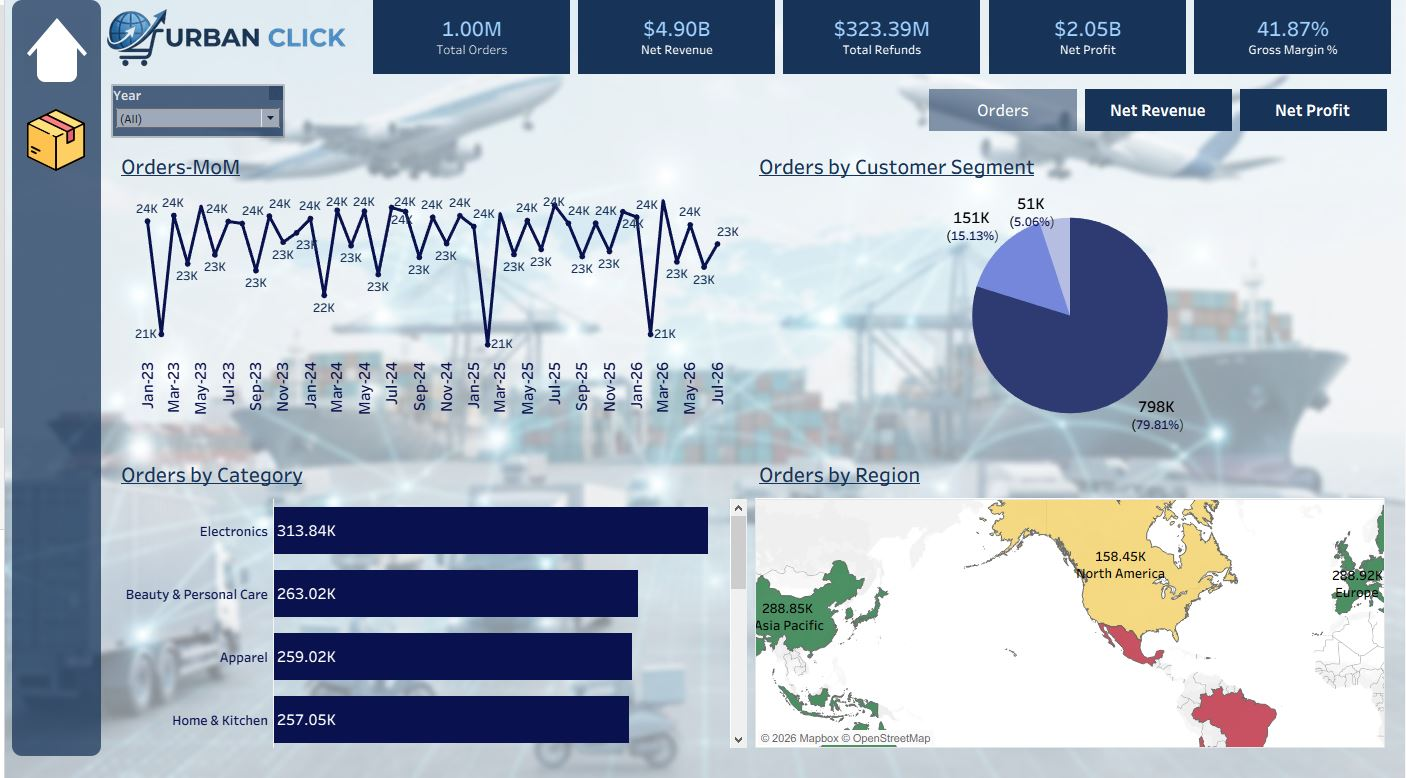
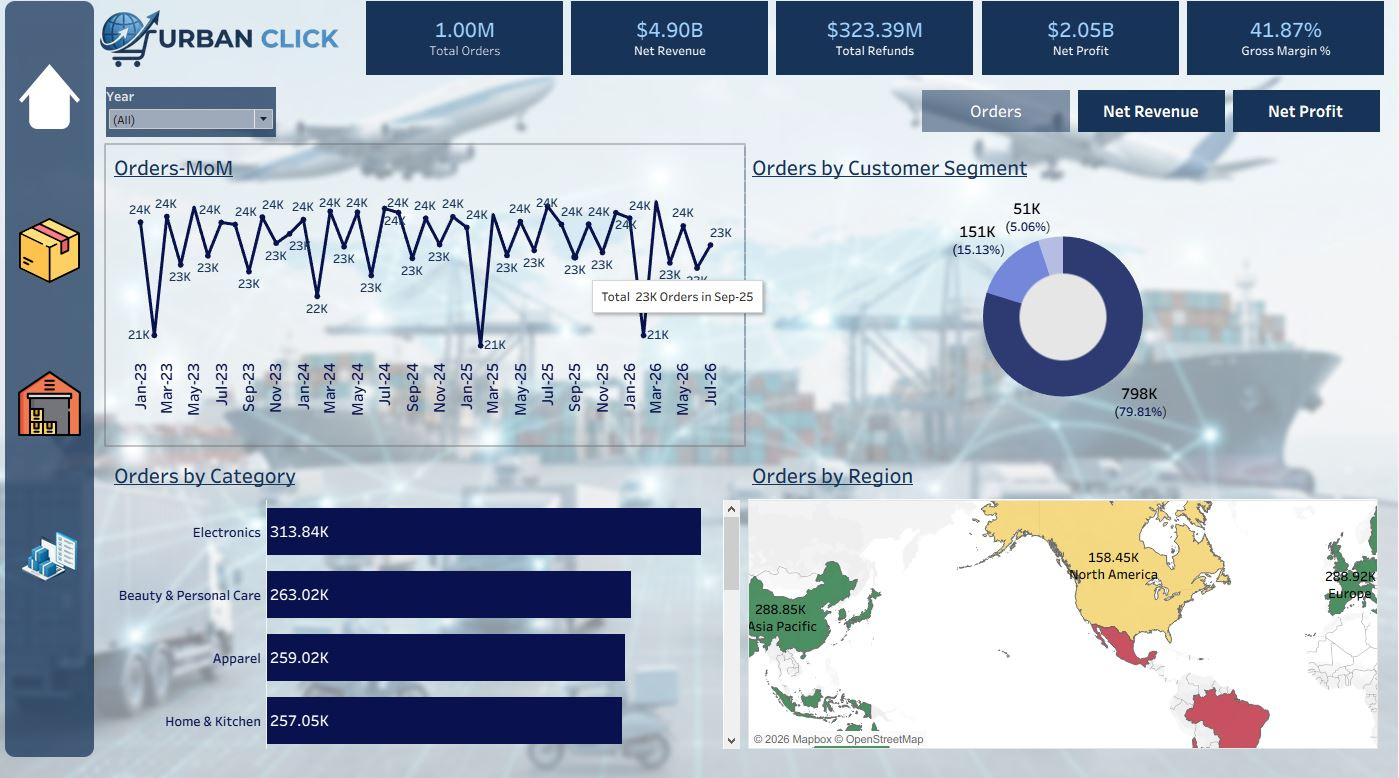
feat(bi): Inventory & Supply Chain Health

diff --git a/README.md b/README.md
@@ -20,8 +20,8 @@ The Project Covers:
 - Phase 4: Exploratory Analytics in Tableau & Power BI: Executive Overview ✅
 - Phase 5: Exploratory Analytics in Tableau & Power BI: Product Analysis ✅
 - Phase 6: Exploratory Analytics in Tableau & Power BI: Warehouse Location & Capacity Utilization ✅
-- Phase 7: Exploratory Analytics in Tableau & Power BI: Inventory & Supply Chain Health 🔄
-- Phase 8: Exploratory Analytics in Tableau & Power BI: Customer Segmentation & RFM ⏳
+- Phase 7: Exploratory Analytics in Tableau & Power BI: Inventory & Supply Chain Health ✅
+- Phase 8: Exploratory Analytics in Tableau & Power BI: Customer Segmentation & RFM 🔄
 - Phase 9: Exploratory Analytics in Tableau & Power BI: Retruns and Logistics ⏳
 - Phase 10: Enterprise Packaging & Git Commit Optimization ⏳
 
@@ -67,6 +67,9 @@ venv/
 
 ![Tableau Product Analysis](tableau/Tableau_WH_Utilization.JPG)
 
+##### Objective: Prevent stockouts on fast-moving items while reducing holding costs on dead stock.
+
+![Tableau Product Analysis](tableau/Tableau_Inventory_&_Supply_Chain_Health.JPG)
 
 ### Power BI
 
@@ -82,10 +85,9 @@ venv/
 
 ##### Objective: Monitor fulfillment bottlenecks, regional workload distribution, and warehouse capacity thresholds.
 
-![Power BI Product Analysis](power_bi/WH_utilization.JPG)
+![Power BI Product Analysis](power_bi/WH_Utilization.JPG)
 
-## Issues during project
-1. **Connectivity between Power BI -> MySQL**\
-    Compativility issue between native MySQL connector and the installed Connector/NET provider.
+##### Objective: Prevent stockouts on fast-moving items while reducing holding costs on dead stock.
 
-    **Solution:** Power BI was connected to MySQL using the MySQL ODBC 8.4 Unicode Driver. The database connection was validated through DSN testing before use.
+![Power BI Product Analysis](power_bi/Inventory_&_Supply_Chain_Health.JPG)
+
